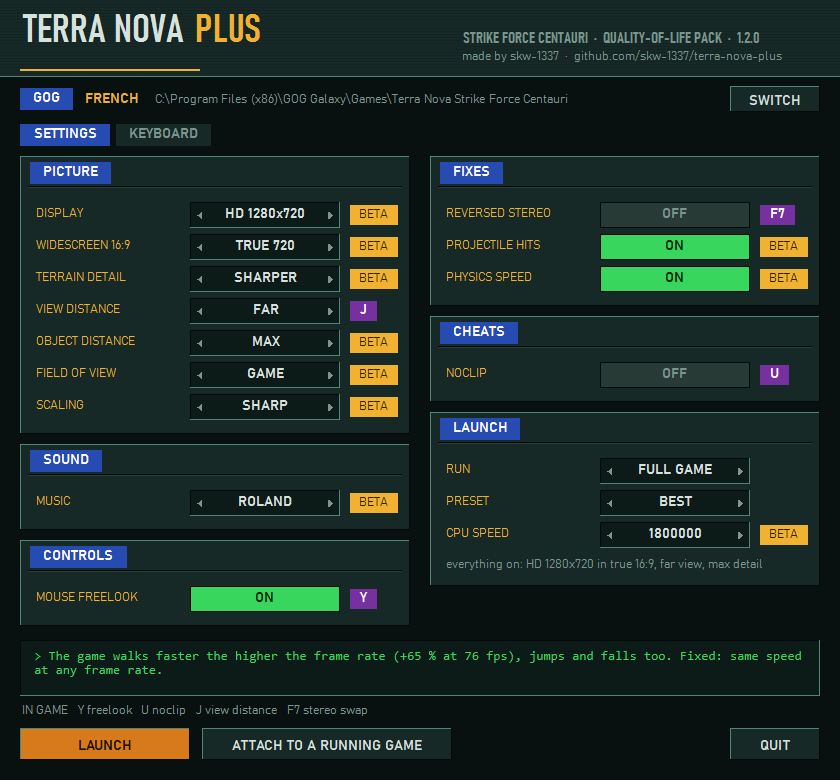
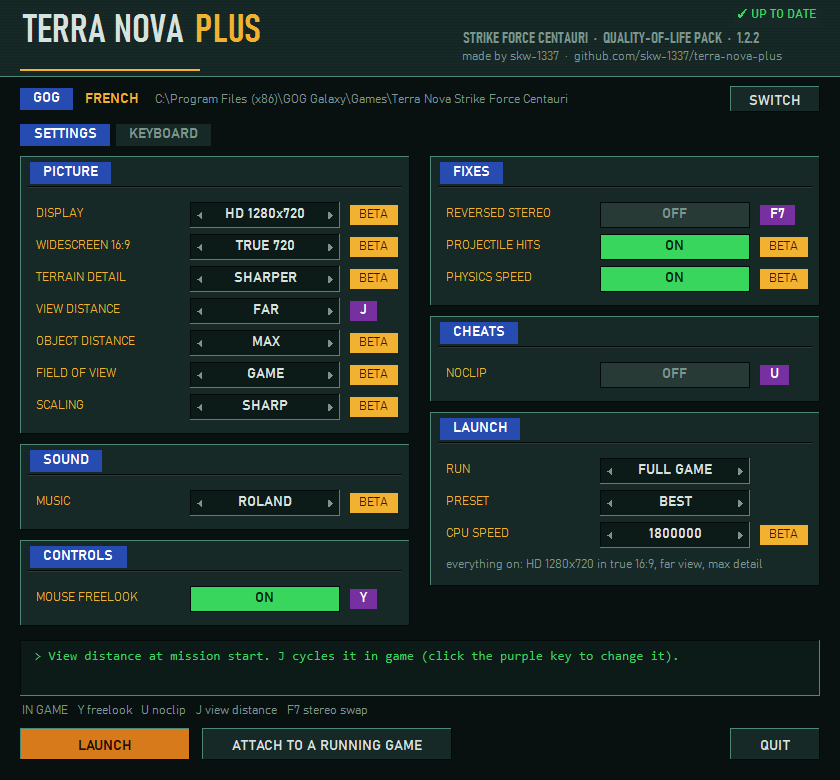
README: brought up to date for 1.2.2

Changed region(s): [[0.0619, 0.8308, 0.9595, 0.8615], [0.8976, 0.0, 0.9595, 0.0308]]

diff --git a/README.md b/README.md
@@ -12,27 +12,32 @@ One small external tool. Pick your options in its window, click Launch, and the 
 | **Display** | — | `ORIGINAL`, `320x400` (the engine's best resolution, applied in every mission: the game normally only keeps it in save files), or HD: `640x400` (the 3D drawn at twice the width), `848x480` or `1280x720` (true 16:9). |
 | **Widescreen 16:9** | — | `STRETCHED`: DOSBox stretches the picture to 16:9 and the tool widens the field of view to match (correct proportions in the 3D, the cockpit is stretched). `TRUE` (HD, beta): the 3D is drawn in a real 16:9 picture (848 columns, sharper than STRETCHED), the cockpit and HUD are stretched to the full width like in STRETCHED. `TRUE 720`: the same in 1280x720. |
 | **Scaling** | — | `SHARP` (default): DOSBox draws with OpenGL and its sharp shader, every pixel the same size on screen, less shimmer when the view moves. `GAME'S OWN`: the edition's setting. |
-| **Field of view** | — | `GAME` / `90` / `100` / `110` degrees for the 3D view, cockpit and full view, at every zoom level (the game: 84.5). The small cockpit cameras keep theirs. Works in 4:3 and in 16:9. |
-| **Terrain and object distance** | — | More ground detail far away, and scenery, units and buildings drawn farther. |
+| **Field of view** | — | `GAME` / `90` / `100` / `110` degrees for the 3D view, cockpit and full view, at every zoom level (the game: 84.5, about 101 in 16:9). The small cockpit cameras keep theirs. Works in 4:3 and in 16:9. |
+| **Terrain detail** | — | `GAME` / `SHARP` / `SHARPER`: smooth ground up to 32 or 48 cells instead of 12 (no stair steps on near slopes), more detail far away. |
+| **Object distance** | — | `GAME` / `FAR` / `MAX`: scenery, units and buildings drawn farther. |
 | **Keyboard** | — | Every game command on the key you want, layout presets (WASD, ZQSD...), mouse buttons and wheel. |
 | **Fixes** | `F7` | Projectiles hit at any frame rate (and no longer go through turrets), physics at the same speed at any frame rate, a smooth infrared view, the zoom kept after the Options screen, no black screen at the end of a mission, reversed stereo under DOSBox (`F7` compares). |
 | **Music** | — | Roland / General MIDI, Sound Blaster FM, or the game's own AWE32 bank (you bring the AWE32 ROM). |
 
-Everything happens in memory while you play, except one thing: for HD, terrain detail, field of view, 16:9 and changed game keys TNPlus patches `TNOVA\__FF.EXE` once, and keeps the untouched file as `__FF.EXE.tnplus-original`.
+Everything happens in memory while you play, except two files: for HD, terrain detail, field of view, 16:9 and changed game keys TNPlus patches `TNOVA\__FF.EXE` once, and Music is written in the game's `TN.CFG`. The untouched files are kept as `*.tnplus-original`.
 
 ## 1.2
 
-**Latest: [1.2.2](https://github.com/skw-1337/terra-nova-plus/releases/tag/v1.2.2)**: fixes a crash at the first key press in a mission, with Attach or the ORIGINAL preset, on a game never launched from TN+ with HD, terrain detail, field of view or 16:9. Since 1.2.1 the launcher shows when a newer version is out (top right, click to open the download page; `update_check = 0` turns it off).
+**Latest: [1.2.2](https://github.com/skw-1337/terra-nova-plus/releases/tag/v1.2.2)**: fixes a crash at the first key press in a mission, with Attach or the ORIGINAL preset, on a game never launched from TN+ with HD, terrain detail, field of view or 16:9. Since 1.2.1 the launcher shows when a newer version is out (top right, click to open the download page; `update_check = 0` turns it off):
+
+![Update badge in the launcher](docs/v121_update.png)
+
+The 1.2 launcher, with the BEST preset (the default):
 
 ![Terra Nova Plus launcher](docs/launcher_v12.png)
 
 - **HD 1280x720**: the 3D is drawn 1280 pixels wide and 1.5 times taller, in true 16:9. It's the new BEST preset and the default for a new install. A small frame counter sits top right (`fps_counter = 0` hides it).
-- **Much faster in DOSBox**: a lot of the game's 3D code rewrote itself while running, which DOSBox handles badly. Those spots are fixed, same picture: on Panama I get about 75 to 100 fps in 1280x720. The default CPU speed is now 1800000. If your PC can't keep up, try HD 848x480 or a lower CPU speed.
-- **No more stair steps on far slopes**: the distant ground was shaded in blocks along the terrain grid. It's shaded smoothly now.
+- **Much faster in DOSBox**: a lot of the game's 3D code rewrote itself while running, which DOSBox handles badly. Those spots are fixed, same picture (most of them in 1280x720 only): on Panama I get about 75 to 100 fps in 1280x720. The default CPU speed is now 1800000. If your PC can't keep up, try HD 848x480 or a lower CPU speed.
+- **No more stair steps on far slopes** (1280x720): the distant ground was shaded in blocks along the terrain grid. It's shaded smoothly now.
 
 ![Far terrain, 1.1.0 and 1.2](docs/v12_terrain.png)
 
-- **Cockpit cameras in HD**: the squadmate, target and drone views in the cockpit are drawn in HD too, with smoother ground.
+- **Cockpit cameras in HD** (1280x720): the squadmate, target and drone views in the cockpit are drawn in HD too, with smoother ground.
 
 ![Cockpit camera, 1.1.0 and 1.2](docs/v12_cameras.png)
 
@@ -62,9 +67,9 @@ The turret, descrambler and infrared fixes come from Callemann's [TNova Native](
 - Since beta 3 it's a real window, in the colours of the game's cockpit. Hover a setting to read what it does at the bottom. `TNPlus.exe --console` keeps the old text menu.
 - A badge shows which copy of the game you're launching: **GOG**, **STEAM** or **OTHER**, plus its language. If you have more than one install, **Switch** goes to the next one.
 - **Presets**: ORIGINAL, CLASSIC+ and BEST. Change anything yourself and it shows CUSTOM.
-- Display is a single choice (Original / Sharp 320x400 / HD 640x400, shown as HD 848x480 with Widescreen TRUE), so you can't mix incompatible modes by accident. Click a selector to cycle its choices, right-click to go back.
+- Display is a single choice (Original / Sharp 320x400 / HD 640x400 / HD 848x480 / HD 1280x720, the last two set Widescreen TRUE or TRUE 720), so you can't mix incompatible modes by accident. Click a selector to cycle its choices, right-click to go back.
 - Settings are grouped: Picture, Sound, Controls, Fixes (things that are only needed if you have the problem), Cheats and Launch. In-game keys are shown in purple next to each option.
-- A yellow **BETA** badge marks what is new in 1.1.0, and a red **EXPERIMENTAL** one what is still rough.
+- A yellow **BETA** badge marks the newer options.
 
 ### True 16:9 and field of view (beta 5)
 - **Widescreen TRUE** (with HD): the game runs in an 848x480 mode and the 3D is drawn 848 pixels wide, so you see more on the sides, not a stretched picture. The cockpit and HUD are stretched to the full width (`wide_hud = 0` keeps them centred).
@@ -93,7 +98,7 @@ The turret, descrambler and infrared fixes come from Callemann's [TNova Native](
 ### Terrain detail
 - More ground detail far away. Steep walls in the distance no longer turn into a saw blade.
 - Since beta 4, smoother ground too. Near the camera the game draws the terrain as textured polygons, but only up to 12 cells; farther it uses columns that turn slopes and cliff edges into stair steps. SHARP extends the polygons to 32 cells and SHARPER to 48. In HD, SHARPER draws them less far (down to 24 cells) when the frame rate drops below 60, and back to 48 when it can.
-- The engine could not go past 31 cells: its vertex grid is 64x64 and its polygon buffers are small. TNPlus patches `TNOVA\__FF.EXE` once (128x128 grid, bigger buffers, 1 MB render memory) and keeps the untouched file as `__FF.EXE.tnplus-original`.
+- The engine could not go past 31 cells: its vertex grid is 64x64 and its polygon buffers are small. TNPlus patches `TNOVA\__FF.EXE` once (128x128 grid, bigger buffers, 1.5 MB render memory) and keeps the untouched file as `__FF.EXE.tnplus-original`.
 
 ### Sound
 - **Fix reversed stereo** (off by default): under DOSBox the game's Sound Blaster 16 driver swaps left and right, cutscenes included. The tool can start DOSBox with the channels swapped back.
@@ -110,7 +115,7 @@ The catch: nine sounds out of ten in that bank live in the ROM chip of the real 
 2. Put it in the same folder as `TNPlus.exe` (keep the tool in its own folder, it writes a few files next to itself).
 3. Start the launcher and pick AWE32 in Music: the notice line under the settings says if the ROM was found.
 
-The check is done when the launcher starts, so restart it after copying the file. It looks for the exact name `awe32.raw`, in its own folder only (not the game's), and the file must be exactly 1 048 576 bytes, a truncated or different dump counts as not found. Without the file, AWE32 stays selectable but the notice says the ROM wasn't found and music plays on Roland (same for a `music = AWE32` in `TNPlus.ini`, the console says it too). It's experimental: a few instruments are still slightly out of tune, and I have no real card to compare with. The percussion the bank doesn't define is played with the Windows sound set.
+The launcher looks for the file again whenever you change a setting and when you click Launch, no need to restart it. It looks for the exact name `awe32.raw`, in its own folder only (not the game's), and the file must be exactly 1 048 576 bytes, a truncated or different dump counts as not found. Without the file, AWE32 stays selectable but the notice says the ROM wasn't found and music plays on Roland (same for a `music = AWE32` in `TNPlus.ini`, the console says it too). It's experimental: a few instruments are still slightly out of tune, and I have no real card to compare with. The percussion the bank doesn't define is played with the Windows sound set.
 
 ### Demos
 
@@ -125,14 +130,14 @@ Stereo fix and demos need the tool to start DOSBox (Launch). With **Attach**, ad
 - **Physics speed fix** (beta 4, on by default). The game also walked faster the higher the frame rate: 2.0 game units per second at 37 fps, 3.3 at 76 fps, jumps and falls too. The physics engine kept a few milliseconds of leftover time that it added again on every frame. Cleared now: about 1.9 units per second at any frame rate. The soldiers' idle gestures and the descrambler text (mission 26) also keep their original pace.
 - **End-of-mission freeze guard** (beta 4, always on). The game frees the cockpit's click zones when a mission ends but keeps testing the mouse against them for a moment, and could get stuck there forever on a black screen. The routine that walks those zones now gives up after 255 steps, and freelook stops writing the cursor as soon as the game stops running frames.
 - **Zoom fix** (1.1, always on). Back from the Options screen the view came back unzoomed while the game kept its zoom level, so the next zoom step jumped. The view is now set up at the current level.
-- **Infrared speed fix** (1.1, with HD). In infrared the game writes texture steps into the code of its terrain routines many times a frame, and DOSBox has to translate that code again each time: turning fast in IR dropped to about 35 fps, uneven. Those two routines now read the values as data (Callemann's fix for [TNova Native](https://github.com/Murplugg/Terra-Nova-SFC-improved), ported here): IR runs as fast as the normal view. The routines are rebuilt from your own game files at run time, nothing of the game is shipped.
+- **Infrared speed fix** (1.1). In infrared the game writes texture steps into the code of its terrain routines many times a frame, and DOSBox has to translate that code again each time: turning fast in IR dropped to about 35 fps, uneven. Those two routines now read the values as data (Callemann's fix for [TNova Native](https://github.com/Murplugg/Terra-Nova-SFC-improved), ported here): IR runs as fast as the normal view. When TN+ starts DOSBox the fix goes into the game's own routines (otherwise, in HD, into copies rebuilt from your own game files at run time): nothing of the game is shipped.
 - **Normal view speed fix** (with HD). Same trouble in the normal view: the two routines the game runs for every polygon edge rewrite their own code at each call. They read those values as data now, rebuilt the same way: on Panama with SHARPER, 43 -> 47 fps at the locks, 40 -> 46 when turning there.
 - **Polygon speed fix** (prepared exe). The routine that fills textured polygons (models, buildings) rewrites an instruction of its pixel loop line after line, and DOSBox ends up running that instruction through its slow interpreter at every pixel. Same for a rounding in the edge set-up. Both are fixed code now: about 5 % more fps where models fill the screen.
 - **Smoother walking** (beta 4, part of the physics fix). The physics skipped any frame shorter than 10 ms; above ~80 fps DOSBox gives 8 ms frames, so one frame in six had no movement and walking stuttered. Every frame is simulated now.
 - **Object distance** (beta 4, GAME / FAR / MAX, MAX by default). Bushes, trees and rocks were only drawn within 20 terrain cells whatever the detail setting, and units and buildings within a range per type (20 cells for PBAs). FAR draws scenery up to 30 cells and doubles the ranges, MAX goes to 40 cells and triples them (120 cells at most). The engine's fixed-size object list and the limits of its entity walk are raised first so the extra objects fit. The game has no model LOD to improve: objects are always drawn with the same model.
 
 ### Small stuff
-- The tool starts DOSBox with 1000000 CPU cycles (**CPU speed** in the launcher, `cpu_cycles` in `TNPlus.ini`, 0 to keep the edition's setting). The Steam and GOG configs ship with 115000, which makes the game crawl. If the game feels slow, try a higher speed; if your PC can't keep up, DOSBox lowers the cycles for a moment instead of lagging. Higher speeds are safe for the gameplay thanks to the two fixes above.
+- The tool starts DOSBox with 1800000 CPU cycles (**CPU speed** in the launcher, `cpu_cycles` in `TNPlus.ini`, 0 to keep the edition's setting; an ini still on an older default is moved up on its own). The Steam and GOG configs ship with 115000, which makes the game crawl. If the game feels slow, try a higher speed; if your PC can't keep up, DOSBox lowers the cycles for a moment instead of lagging. Higher speeds are safe for the gameplay thanks to the two fixes above.
 - View distance moved from `I` to `J`: `I` is the game's infrared. Old settings files are updated on their own.
 
 ## Download & use
@@ -145,7 +150,7 @@ Stereo fix and demos need the tool to start DOSBox (Launch). With **Attach**, ad
    Pick a preset or set things one by one, then click **Launch**. Your choices are saved in `TNPlus.ini`.
 3. The window closes and a small console stays minimized in the taskbar. Play! When the game closes, the window comes back.
 
-The game folder is detected automatically (**GOG** registry and **Steam** libraries). If you have both, **Switch** goes from one to the other. For any other install, start the game yourself and click **Attach**: everything works except widescreen, stereo fix and music, which need the tool to start DOSBox.
+The game folder is detected automatically (**GOG** registry and **Steam** libraries). If you have both, **Switch** goes from one to the other. For any other install, start the game yourself and click **Attach**: freelook, noclip, view distance, 320x400, object distance and the hit and physics fixes work. HD, 16:9, field of view, terrain detail, the KEYBOARD tab, CPU speed, scaling, stereo fix and music need the tool to start DOSBox. If your GOG or Steam folder isn't found, set `game_dir` in `TNPlus.ini`.
 
 ## Tips
 
@@ -164,7 +169,7 @@ The game folder is detected automatically (**GOG** registry and **Steam** librar
 | `terrain_fps` | `60` | SHARPER in HD: frame rate it keeps by drawing the smooth terrain less far, `0` = always 48 cells |
 | `widescreen` | `3` | `0` off, `1` stretched, `2` true 16:9 in 848x480 (HD), `3` true 16:9 in 1280x720 (HD) |
 | `fps_counter` | `1` | 1280x720: small frame counter top right |
-| `speed_fixes` | `1` | 1280x720: the speed fixes in the game's 3D code, `0` = leave the game's code as it is |
+| `speed_fixes` | `1` | HD: the speed fixes in the game's 3D code (the polygon ones in every HD mode, all of them and the smooth far slopes in 1280x720), `0` = leave the game's code as it is |
 | `small_views` | `1` | 1280x720: the cockpit cameras drawn in HD |
 | `update_check` | `1` | the launcher asks GitHub for the latest release number at start-up and shows UP TO DATE or UPDATE (click opens the download page), `0` = no check |
 | `wide_hud` | `1` | true 16:9: `1` cockpit and HUD stretched to the full width, `0` centred at their own proportions |
@@ -192,18 +197,19 @@ The game folder is detected automatically (**GOG** registry and **Steam** librar
 
 ## Compatibility
 
-Freelook, noclip, view distance and 320x400 find the game inside the emulator through **code signatures** (instruction patterns with wildcarded addresses), so they work with any DOSBox-family emulator and any memory setting. HD, true 16:9, field of view, terrain and object distance, the keyboard and the fixes patch known places of the v1.09 executables and check the original bytes before writing. Launching (and therefore widescreen, stereo fix and music) uses the DOSBox Staging bundled with the Steam and GOG releases.
+Freelook, noclip, view distance and 320x400 find the game inside the emulator through **code signatures** (instruction patterns with wildcarded addresses), so they work with any DOSBox-family emulator and any memory setting. HD, true 16:9, field of view, terrain and object distance, the keyboard and the fixes patch known places of the v1.09 executables and check the original bytes before writing. Launching uses the DOSBox Staging bundled with the Steam and GOG releases (needed for HD, 16:9, field of view, terrain detail, the keyboard, CPU speed, scaling, stereo fix and music, see **Attach** above).
 
 - **Tested live:** Steam (English v1.09, the same exe as GOG) and French v1.09, every option.
 - **All signatures verified** (exactly one match each, consistent with each other) in: English v1.09 (Steam and GOG executables), French v1.09, English v1.08 (CD image).
 - Modding notes for the English v1.09 exe (addresses, every patch, bugs found on the way): [modding/](modding/).
 - The freelook core is the same as [Terra Nova Mouse Freelook](https://github.com/skw-1337/terra-nova-freelook) v1.1, tested live on the Steam version.
 
-Feedback welcome, especially from Steam players and DOSBox-X users.
+Feedback welcome, especially from Steam players and DOSBox-X users: [discussions](https://github.com/skw-1337/terra-nova-plus/discussions) or [issues](https://github.com/skw-1337/terra-nova-plus/issues).
 
 ## Safety
 
-- It only opens DOSBox processes. In the running game it writes values and code at places found from the game's own code or checked byte for byte first. On disk it only changes `TNOVA\__FF.EXE` (once, for HD, terrain detail, field of view, 16:9 and changed game keys) and `TN.CFG` (music), and keeps the originals as `*.tnplus-original`.
+- It only opens DOSBox processes. In the running game it writes values and code at places found from the game's own code or checked byte for byte first. On disk it only changes `TNOVA\__FF.EXE` (once, for HD, terrain detail, field of view, 16:9 and changed game keys) and `TN.CFG` (music), and keeps the originals as `*.tnplus-original`. Next to itself it writes `TNPlus.ini` and the DOSBox settings it starts the game with (`TNPlus_*.conf`, plus `TNPlus_keys.map` and `TNPlus_awe32.sf2` when needed).
+- Its only network access: when its window opens, the launcher asks GitHub for the number of the latest release (`update_check = 0` turns it off).
 - Freelook and noclip only start inside the 3D view of a mission and switch off by themselves when you leave it, so nothing is written into stale memory.
 - Because it reads/writes another program's memory, some antivirus software may flag it, like any game trainer: see below.
 
@@ -243,7 +249,10 @@ or manually:
 | 320×400 | goes through the same path as the options screen's "Accept" button; the game applies it on the next mission frame |
 | Field of view | every camera is set up by one routine from its zoom (focal lengths, culling angles, view matrix, the 3D library's projection); the stock view is 2·atan(1 / 1.1·zoom) = 84.5°. A hook gives the main camera an effective zoom = zoom × 1 / (1.1·tan(FOV/2)), so every zoom level follows; the terrain rings keep the raw zoom. The polygon terrain is built in 3 sectors of 45° around the heading: a second hook lowers the angle that builder sees to what its window covers, otherwise views wider than 90° facing a diagonal lost most of the ground. |
 | Widescreen | DOSBox is started with `aspect = stretch`. Every camera's vertical scale ×4/3 and the 3D library's pixel ratio ×3/4 (hooks in the camera setup and the renderer): correct proportions in every view, small cockpit cameras included. The main view gets 33 % more width through its effective zoom, so the terrain culling follows the screen edges (the old way, a global pixel ratio, left the polygon terrain short of the edges; it is kept as a fallback). |
-| True 16:9 | the game's driver sets its 640x400 mode through a table of VESA modes: that entry is switched to DOSBox's 848x480 (`vesa_modes = all`), and the scan line set to 848 right after the game switches (its own call asks for 640). The HD composition stretches the 320x400 game screen to 848 columns (one row in five doubled, 400 to 480 rows) and, wherever the game shows the 3D, takes the pixel of the main view, drawn 848 columns wide, at the same column (`wide_hud = 0`: game screen in the middle at x2, black above and below the 3D on the sides). The engine takes its horizontal scale from the drawing width, so on its own that only stretched the picture (and buildings, drawn by the 3D library with their own scale, slid on the ground); the main camera gets the same correction as stretched 16:9 with F = 2 x its canvas width / 848 (298 in the cockpit, 320 in the full view): vertical scale x1/F at its set-up and zoom x F, while the library's pixel ratio stays the game's (its horizontal object scale works out from the canvas height, so objects sit right on the terrain), so the centre is the usual HD view and the sides show more of the world (the polygon terrain builder is limited to its 135° window). The engine's per-column tables are enlarged to 848 columns, which is why `__FF.EXE` gets 24 KB of extra memory now (16 KB before). |
+| 1280x720 | the driver's 640x400 entry is switched to DOSBox's VESA 1280x960 mode, cut to 600 lines, which DOSBox shows stretched to 1280x720. The 3D is drawn at 3 times the game's columns (1280 with the sides) and 1.5 times its rows; its buffers and the engine's per-column tables are allocated in the game's heap at the first frame. The cockpit cameras get the same, in slots of their own. |
+| Speed fixes (1280x720) | DOSBox runs some instructions through its slow interpreter (SETcc, REPE CMPSB, an opcode the game rewrites at every line), and some loops cost several translated blocks per pixel. The game rewrites those spots itself at its first 3D frame, each group checked first. Same pixels. |
+| Far terrain shading (1280x720) | beyond the polygon ring the ground is drawn in columns, shaded across but flat down each column, so the shade jumped at each ring edge. It is now interpolated down each column too. |
+| True 16:9 (848x480) | the game's driver sets its 640x400 mode through a table of VESA modes: that entry is switched to DOSBox's 848x480 (`vesa_modes = all`), and the scan line set to 848 right after the game switches (its own call asks for 640). The HD composition stretches the 320x400 game screen to 848 columns (one row in five doubled, 400 to 480 rows) and, wherever the game shows the 3D, takes the pixel of the main view, drawn 848 columns wide, at the same column (`wide_hud = 0`: game screen in the middle at x2, black above and below the 3D on the sides). The engine takes its horizontal scale from the drawing width, so on its own that only stretched the picture (and buildings, drawn by the 3D library with their own scale, slid on the ground); the main camera gets the same correction as stretched 16:9 with F = 2 x its canvas width / 848 (298 in the cockpit, 320 in the full view): vertical scale x1/F at its set-up and zoom x F, while the library's pixel ratio stays the game's (its horizontal object scale works out from the canvas height, so objects sit right on the terrain), so the centre is the usual HD view and the sides show more of the world (the polygon terrain builder is limited to its 135° window). The engine's per-column tables are enlarged to 848 columns, which is why `__FF.EXE` gets 24 KB of extra memory now (16 KB before). |
 
 ## Credits
 
